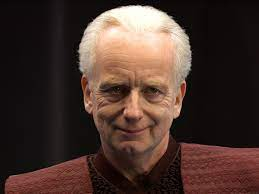
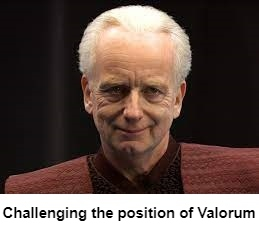
added 2 new pages
wrote markup and styling for 2 new pages

diff --git a/HTMLPage2.html b/HTMLPage2.html
@@ -1,0 +1,90 @@
+<!DOCTYPE html>
+
+<html lang="en" xmlns="http://www.w3.org/1999/xhtml">
+<head>
+    <meta charset="utf-8" />
+    <title>Emperor Palpatine</title>
+    <script src="https://kit.fontawesome.com/9673ebfa60.js" crossorigin="anonymous"></script>
+    <link rel="icon" href="img/favicon.jpg" />
+    <link href="StyleSheet1.css" rel="stylesheet" type="text/css" />
+</head>
+
+<!-- ------------------------------------------------------------------------------------------ -->
+
+<body>
+
+    <header>
+        <style type="text/css">
+            #element1 {
+                float: left;
+            }
+
+            #element2 {
+                float: center;
+            }
+        </style>
+
+        <div id="element1">
+            <font size="6">
+                <a href="index.html">
+                    <i class="fa-solid fa-chevron-left"></i> <img src="img/avatar.jpg" />
+                </a>
+            </font>
+        </div>
+        <div id="element2">
+            <h1>Emperor Palpatine</h1>
+        </div>
+    </header>
+
+    <main>
+        <p>
+            After carefully orchestrating the Clone Wars, Palpatine finally had enough influence and control to implement the final part of his plan. Executing order 66.
+        </p>
+        <h2>Death of the Jedi</h2>
+        <hr />
+        <p>
+            It remained only for Palpatine to win the Senate's support, so he called for a special session to inform them of the "Jedi rebellion." For the sake of his audience, he covered the damage to his face. He could have appeared in his usual black robes and hood, but for this triumphant day, something more eye-catching was needed. He chose a robe of burgundy material, with a matching velvet mantle and hood in the Sith style. As a coronation robe, it sufficed. He also donned it despite it containing several Sith symbols as he knew full well that none in the rotunda would ever recognize them.
+            <br />
+            The Senate saw his face twisted and distorted, his blue eyes, penetrating but friendly, replaced by harsh yellow ones, far more penetrating and anything but friendly. For the rest of his life that face would be seen, appropriately enough, only in shadow, shrouded by a hood, those piercing yellow eyes its most visible feature. The galaxy eventually reconciled itself to this new face; portraits and statues of him incorporated it without shame. As he intended, that countenance was seen as a mark of pride, a wound suffered in the service of the people.
+            <br />
+            The Senators were informed of the Jedi plan not just to kill him, but to overthrow the Senate as well. As evidence, they heard recordings from his private office, and the voice of the late Master Windu accusing the Chancellor, in whom the galaxy had placed its trust, of being a Sith. And while the emphasis was always on the "treacherous plot against the Republic," never did Palpatine deny the accusation. Instead, he blamed the Jedi Order for everything he had done for the past three decades: they had manipulated the galaxy. Through their "puppet" Senators (conveniently, all members of the opposition), they were blamed for fostering corruption in the government to undermine the Republic. Through Dooku, they were blamed for manufacturing the Separatist movement to push the Republic into war. Through Sifo-Dyas, they were blamed for commissioning the clone army. Between these two proxies and the armies they commanded, he insisted, the Jedi had presided over a sham war, all to weaken the Republic so that the Council could take power openly.[95]
+            <br />
+            Thus he played on the long-accumulating mistrust and resentment of the Jedi, much of which he had fostered, to confirm what for some had become a firm conviction: that the war was nothing more than a Jedi plot. In the face of anti-Jedi biases, it was easy for Palpatine to depict Order 66 as a just and necessary measure.
+            <br />
+            Those who knew the Jedi in a better and clearer light and could have defended them, including much of the Senate opposition, were in no position to argue; the mood in the hall was clearly against them. In any case, they could see armed shock troopers stationed throughout the chamber, allegedly for the Chancellor's "protection."
+            <br />
+        </p>
+
+        <h2>Hail to the king</h2>
+        <hr />
+
+        <p>
+            Palpatine becomes Emperor of the galaxy.
+            <br />
+            Here the opposition held its collective breath. It had been assumed that with the end of the war, and with the destruction of the alleged "hidden powers" behind the war, Palpatine would keep his promise to relinquish his emergency powers, step down from office and go into retirement on Naboo. But he had other plans, and when he announced them, the opposition was sent reeling.
+            <br />
+            So he had confirmed their worst fears—there would be more changes to the Constitution, if that document was not to be scrapped entirely. It soon became frightfully clear that there would be more direction to the Senate, than ruling by the Senate. Many just did not care; they knew where the power lay, and their support would gain them influence later. Those who did care remembered that there were blasters in the room. Palpatine continued, skillfully evoking the glories of empires past for a galaxy tired of disorder.
+            <br />
+            The next 25 years would see the violent suppression of all opposition, including intimidation, arrests, executions, the destruction of cities, even the destruction of entire planets. He would have gone further, and destroyed entire star systems, had his rule remained unchallenged. But the Rebel Alliance was years in the future. For the present, its future founders, Bail Organa and Mon Mothma, had no choice but to feign support for their new Emperor; they could do more good alive than dead. Seduced by promises of safety, security, justice and peace, or perhaps just intimidated into silence, the Senate unanimously voted "yes." The Galactic Empire was an established fact.[96]
+            <br />
+        </p>
+
+
+        <img src="img/democracy.jpg" alt="Palpatine's 'I love democracy' speech'" title="I love democracy, I love the republic">
+        <h2>Securing the spot</h2>
+        <hr />
+        <p>
+            'And the Jedi rebellion has been foiled. The remaining jedi will be hunted down and defeated. The attempt on my life has left me scarred and deformed, but I assure you my resolve as never been stronger.
+            In order to ensure the continuing security andstability, the republic will be reorganized into the first galactic empire... For a safe and secure society.'
+        </p>
+        <iframe width="420" height="315"
+                src="https://www.youtube.com/watch?v=hS57I6swXcc&ab_channel=Yul%C3%ADn" alt="The speech in the senate building.">
+        </iframe>
+    </main>
+
+    <footer>
+        <p>This site was created during loadshedding by Shaedo. &copy; Dodo</p>
+    </footer>
+
+</body>
+</html>

diff --git a/HTMLPage1.html b/HTMLPage1.html
@@ -1,0 +1,68 @@
+<!DOCTYPE html>
+
+<html lang="en" xmlns="http://www.w3.org/1999/xhtml">
+<head>
+    <meta charset="utf-8" />
+    <title>Chancellor Palpatine</title>
+    <script src="https://kit.fontawesome.com/9673ebfa60.js" crossorigin="anonymous"></script>
+    <link rel="icon" href="img/favicon.jpg" />
+    <link href="StyleSheet1.css" rel="stylesheet" type="text/css" />
+</head>
+
+<!-- ------------------------------------------------------------------------------------------ -->
+
+<body>
+
+    <header>
+        <style type="text/css">
+            #element1 {
+                float: left;
+            }
+
+            #element2 {
+                float: center;
+            }
+        </style>
+
+        <div id="element1">
+            <font size="6">
+                <a href="index.html">
+                    <i class="fa-solid fa-chevron-left"></i> <img src="img/avatar.jpg" />
+                </a>
+            </font>
+        </div>
+        <div id="element2">
+            <h1>Chancellor Palpatine</h1>
+        </div>
+    </header>
+
+    <main>
+        <p>
+            Palpatine spent some time as a senetor in the republic, representing his home planet of Naboo. But having a clear target, and a replacement for his position,
+            he was able to smoothly execute his plan.
+        </p>
+        <h2>Challenging Valorum</h2>
+        <hr />
+        <p>
+            The long-anticipated special session of the Senate—the last under the Valorum government—had only two items on its agenda: a hearing of the Naboo delegation's case, and a debate on the Trade Federation's continued opposition to BR-0371. Few expected it to be anything other than routine; Palpatine alone knew what was coming. He knew that the Federation's representative, Lott Dod, would stall the proceedings with every procedural tool at his command. He also knew that the vice chair, Mas Amedda, would keep Valorum shackled by procedure no matter what. And he knew that, in the face of an attempt to stall, Amidala would have no choice but to act as he had suggested.
+            <br />
+            During the session, Dod and his allies threw up objection after objection; Amidala, unable to even finish her plea, grew more and more frustrated. Finally, Dod proposed that a Senate committee be created to determine if her "accusations" were valid. This proposition was further supported by Senator Aks Moe of Malastare. Amedda then pulled Valorum aside, subtly forcing him to concede that Dod was within his rights. When Valorum then asked Amidala to defer her motion to allow the committee to do its work, it was the last straw. She saw with her own eyes that Palpatine was right—Valorum was ineffective—and she had nowhere left to go. Palpatine hid his satisfaction as, next to him, Amidala delivered the words that sealed Finis Valorum's fate.
+            <br />
+            Valorum was thunderstruck, but by the time he could recover, events had moved past him. Senator Edcel Bar Gane of Roona immediately seconded Amidala's motion, and the vote was on the floor—within moments, hundreds of Senators were demanding the vote take place. The Senate had waited for this for months, perhaps years, and so unpopular was Valorum that they descended upon him without mercy, demanding a vote. It was all the Chancellor could do to postpone the vote until the following day. Palpatine already knew it would be a vote the Valorum government would not survive. It now remained only for him to ensure that he would be the one filling Valorum's shoes.
+        </p>
+        <img src="img/democracy.jpg" alt="Palpatine's 'I love democracy' speech'" title="I love democracy, I love the republic">
+        <h2>Securing the spot</h2>
+        <hr />
+        <p>
+            In his absence, the Senate voted for a successor. As Palpatine had hoped, Senator Taa nominated him as a third candidate alongside Antilles and Teem. Probably, neither Antilles nor Teem could garner enough votes to achieve an effective majority, especially when the recent murder of certain delegates had removed some decisive votes from the equation.[45] Rather than face a voting deadlock, the Senate eagerly embraced the third option. Antilles's supporters could take heart that Palpatine had seemingly kept his distance from the corrupt Senators during his tenure. Teem's supporters were encouraged by his apparent docility. Almost every faction in the Senate had become convinced that while he was incorruptible, he would work nonetheless to further their specific interests.
+            <br />
+            But the ultimate deciding factor, as Palpatine intended, was the groundswell of sympathy for the representative of besieged Naboo. Palpatine could rightfully claim that Valorum had promised to do all he could for Naboo in a time of crisis, and failed. Perhaps it was proper, many believed, that Palpatine himself should be given the chance to make things right. With such political weight behind him, Palpatine received the most votes by far,[48] becoming Chancellor—the last being ever to hold the title—by an overwhelming margin. He promised to reunite the disaffected among the people and restore the remembered glories of the Republic.[49]
+        </p>
+    </main>
+
+    <footer>
+        <p>This site was created during loadshedding by Shaedo. &copy; Dodo</p>
+    </footer>
+
+</body>
+</html>

diff --git a/index.html b/index.html
@@ -4,46 +4,78 @@
 <head>
     <meta charset="utf-8" />
     <title>Palpatine</title>
+    <script src="https://kit.fontawesome.com/9673ebfa60.js" crossorigin="anonymous"></script>
     <link rel="icon" href="img/favicon.jpg" />
-    <link href="hero.css" rel="stylesheet" type="text/css"/>
+    <link href="hero.css" rel="stylesheet" type="text/css" />
     <!--add favicon--> <!--added-->
 </head>
 <body>
 
     <header>
         <!--insert avatar image-->
-        <img src="img/avatar.jpg" alt="Chancellor Palpatine" title="Chancellor Palpatine"/>
+        <img src="img/avatar.jpg" alt="Chancellor Palpatine" title="Chancellor Palpatine" />
         <h1>PALPATINE</h1>
     </header>
 
     <main>
         <h2>About Palpatine</h2>
+        <hr />
         <p>Sheev Palpatine, born and raised on the planet of Naboo, is the main antagonist in the Star Wars universe.
         He started his career as a politcian while training under his master, Darth Plagueis. He eventually worked himsel 
         up into the galactic senate as a representative of Naboo, and later challenged the position of supreme chancellor Velorum.</p>
-        <img src="img/democracy.jpg" alt="Palpatine during the 'I love democracy' speech" class="center"/>
-        <!--insert image and description -->
 
-        <h2>Achievements and Positoins</h2>
-        <ol>
-            <li>Apprentice of Darth Plagueis</li>
-            <li>Senator in the Galactic Republic</li>
-            <li>Dark Lord of the Sith</li>
-            <li>Supreme Chancellor of the Galactic Empire</li>
-            <li>Emporor of the first Galactic Empire</li>
-        </ol>
+        <h2>Achievements</h2>
+        <hr />
 
-        <h2>Palps's Pals</h2>
-        <p>Palpatine had done a great deal of impressive things in his life, but he couldn't have done it without the 
-        help of his freinds. These include:</p>
-        <ul>
-            <li><a target="_blank" href=""></a>Maas Amedda</li>
-            <li><a targer="_blank" href=""></a>Wilhuf Tarkin</li>
-            <li><a target="_blank" href=""></a>Anakin Skywalker</li>
-        </ul>
-        <!--insert links to their wiki pages-->
+            <style type="text/css">
+                #element1 {
+                    float: left;
+                }
 
-    </main>
+                #element2 {
+                    float: right;
+                }
+            </style>
+
+            <div id="element1">
+                <a href="HTMLPage1.html" title="Challenging authority, and replacing it">
+                    <img src="img/palps_mugshot.jpg" alt="Chancellor Palpatine" />
+                    <p><i>Challenging the position of Chancellor Velorum</i></p>
+                </a>
+            </div>
+            <div id="element2">
+                <a href="HTMLPage2.html" title="The speech that changed the galaxy">
+                    <img src="img/palps_mugshot_2.jpg" alt="Emperor Palpatine" />
+                    <p><i>Changing the world, ruling the galaxy</i></p>
+                </a>
+            </div>
+            
+            <!--insert image and description -->
+
+            <h2>Achievements and Positoins</h2>
+        <hr />
+            <ol>
+                <li>Apprentice of Darth Plagueis</li>
+                <li>Senator in the Galactic Republic</li>
+                <li>Dark Lord of the Sith</li>
+                <li>Supreme Chancellor of the Galactic Empire</li>
+                <li>Emperor of the first Galactic Empire</li>
+            </ol>
+
+            <h2>Palps's Pals</h2>
+        <hr />
+            <p>
+                Palpatine had done a great deal of impressive things in his life, but he couldn't have done it without the
+                help of his freinds. These include:
+            </p>
+            <ul>
+                <li><a target="_blank" href=""></a>Maas Amedda</li>
+                <li><a targer="_blank" href=""></a>Wilhuf Tarkin</li>
+                <li><a target="_blank" href=""></a>Anakin Skywalker</li>
+            </ul>
+            <!--insert links to their wiki pages--> <!--nvm, ill add links to my own pages-->
+
+</main>
 
     <footer>
         <p>This site was created during loadshedding by Shaedo. &copy; Dodo</p>

diff --git a/StyleSheet1.css b/StyleSheet1.css
@@ -1,0 +1,67 @@
+body {
+    margin: 0;
+    font-family: Helvetica, Arial, sans-serif;
+    line-height: 30px;
+    background-color: lightgray;
+    color: white;
+}
+
+header {
+    background-color: darkred;
+    
+    padding-top: 25px;
+    padding-bottom: 25px;
+}
+
+    header h1 {
+        color: white;
+        font-size: 40px;
+        text-align: center;
+    }
+
+    header img{
+        text-align: left;
+        width: 30px;
+    }
+
+main {
+    text-align: center;
+    max-width: 800px;
+    margin: 0 auto;
+    padding: 0 20px;
+}
+main h2 {
+    text-align: center;
+    color: black;
+    padding-top: 20px;
+}
+
+main img {
+    max-width: 100%;
+}
+
+main hr {
+    color: black;
+    background-color: black;
+    height: 1px;
+}
+
+main p {
+    background-color: grey;
+    padding: 30px;
+}
+
+main ul {
+    background-color: grey;
+    padding: 30px;
+}
+
+main ol {
+    background-color: grey;
+    padding: 30px;
+}
+
+footer {
+    background-color: darkred;
+    text-align: center;
+}

diff --git a/hero.css b/hero.css
@@ -45,10 +45,16 @@ main{
 main h2{
     text-align: center;
     color: black;
+    padding-top: 20px;
 }
 main img{
     max-width: 100%;
     
+}
+main hr{
+    color: black;
+    background-color: black;
+    height: 1px;
 }
 main p{
     background-color:grey;
